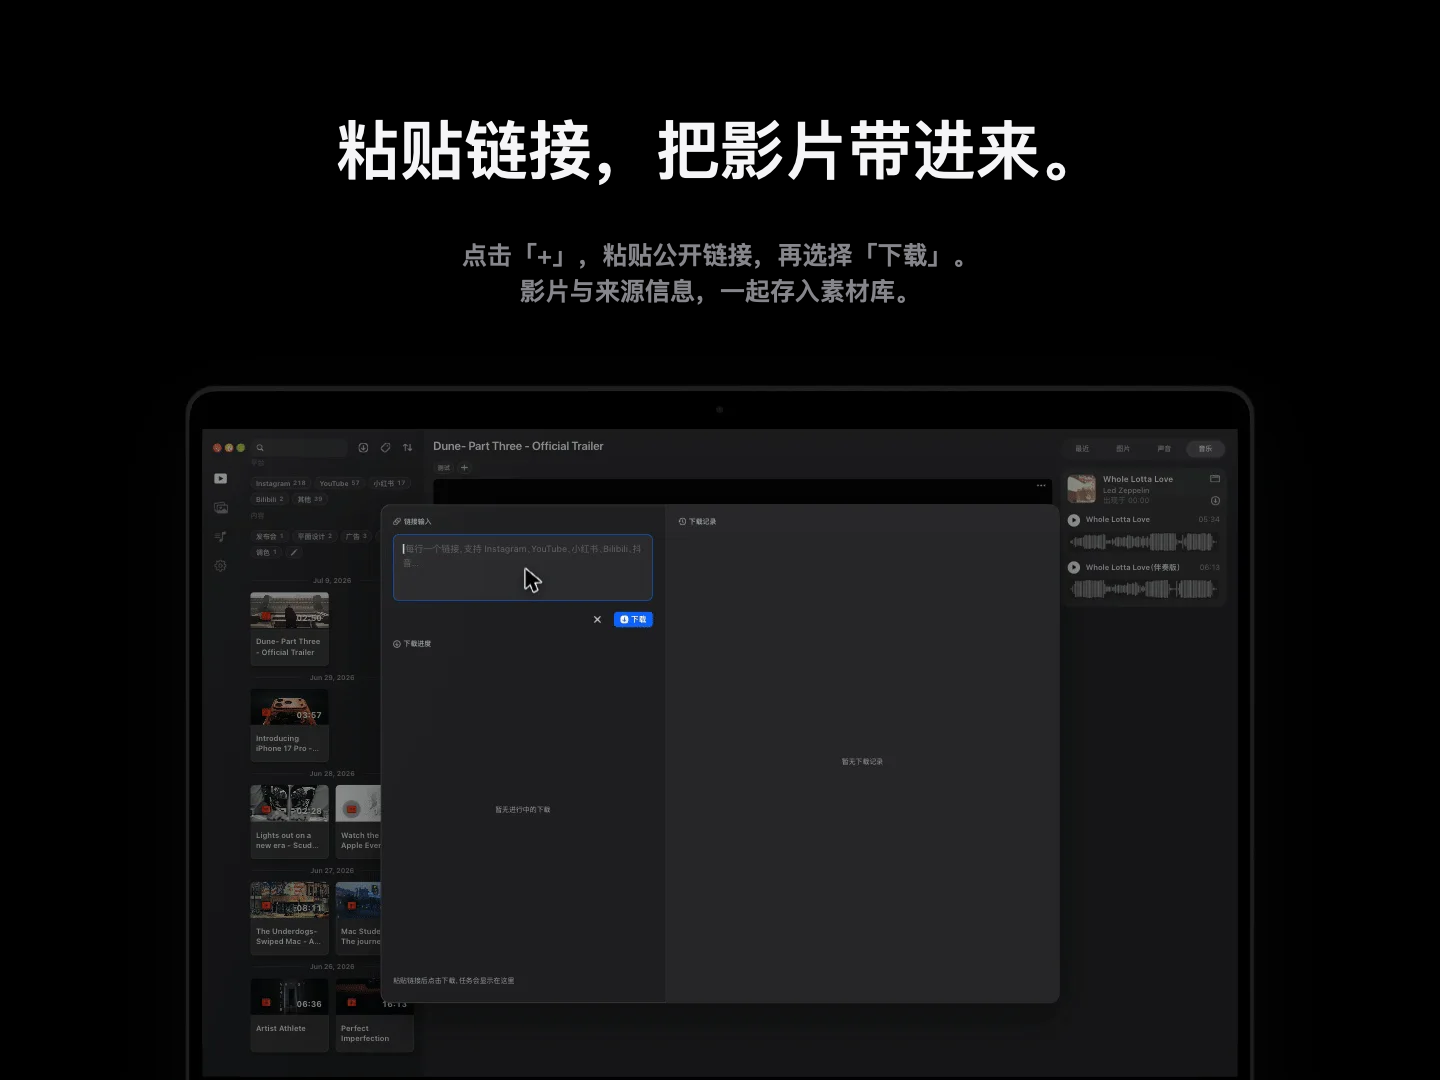
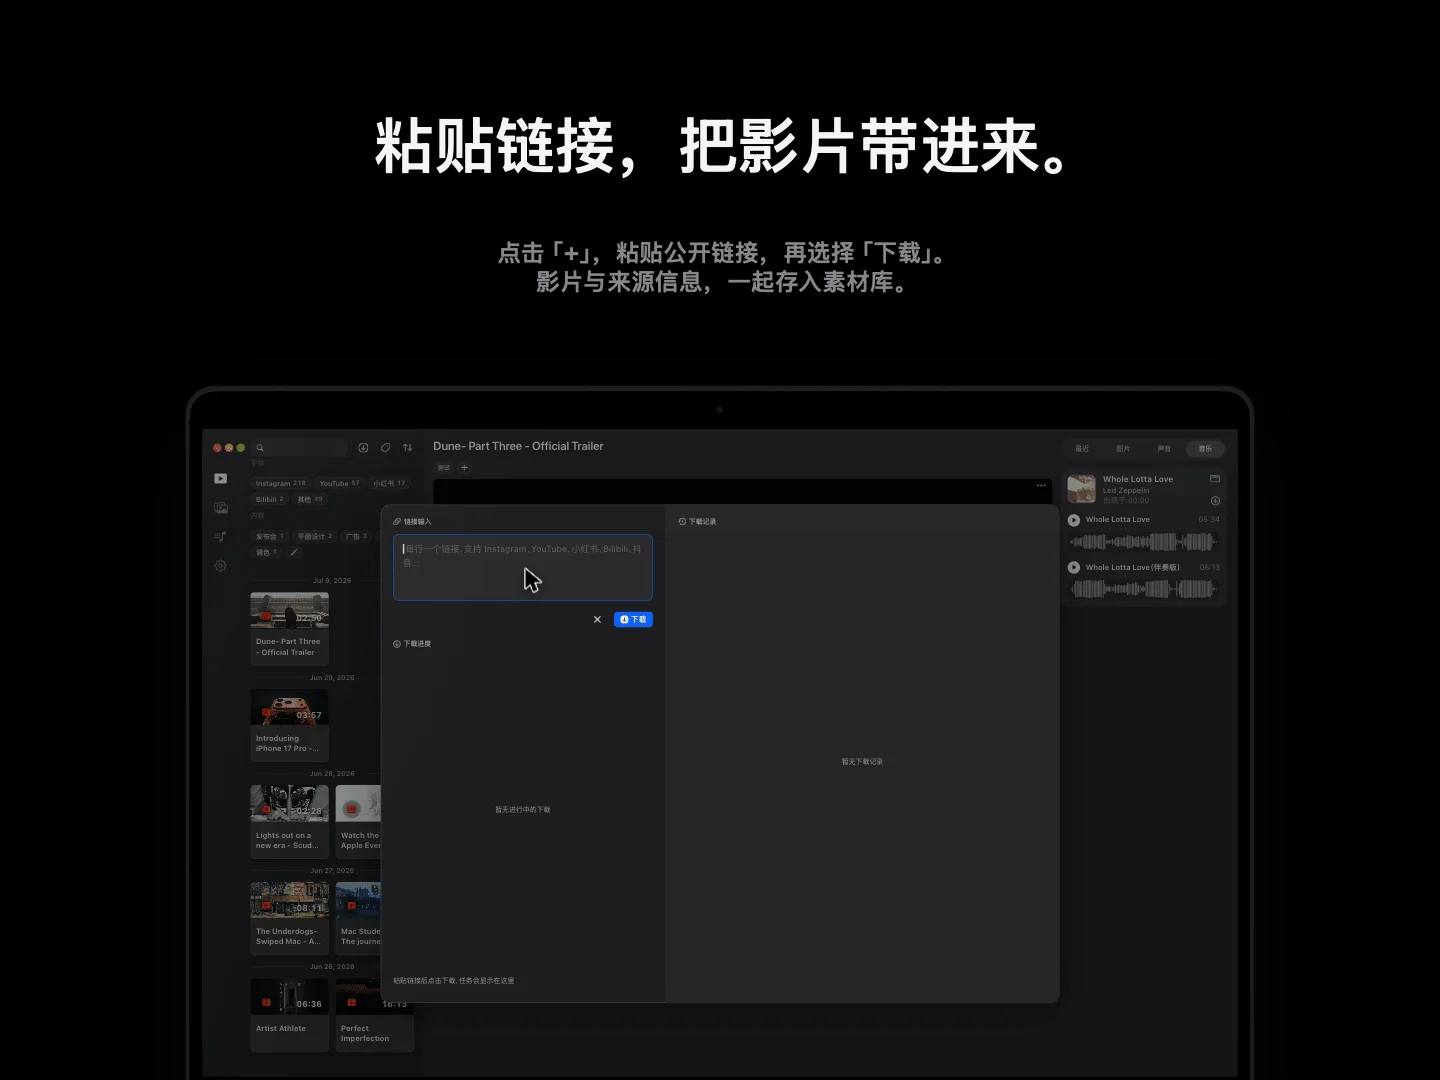
修正中文版展示素材为 SF 系统字体

Changed region(s): [[0.2188, 0.0917, 0.75, 0.1833], [0.3125, 0.2139, 0.6562, 0.3056]]

diff --git a/Tools/render_readme_chinese.swift b/Tools/render_readme_chinese.swift
@@ -10,7 +10,8 @@ try FileManager.default.createDirectory(at:output.appendingPathComponent("poster
 func color(_ hex:Int)->NSColor { NSColor(srgbRed:CGFloat((hex>>16)&255)/255,green:CGFloat((hex>>8)&255)/255,blue:CGFloat(hex&255)/255,alpha:1) }
 func drawText(_ s:String,_ r:NSRect,_ size:CGFloat,_ weight:NSFont.Weight = .semibold,_ tint:NSColor = color(0xf5f5f7),_ center:Bool = false) {
  let p=NSMutableParagraphStyle(); p.alignment=center ? .center : .left
- let font=NSFont(name:weight == .regular ? "PingFangSC-Regular":"PingFangSC-Semibold",size:size) ?? NSFont.systemFont(ofSize:size,weight:weight)
+ // SF system font supplies Latin glyphs; Core Text chooses the matching CJK fallback.
+ let font=NSFont.systemFont(ofSize:size,weight:weight)
  (s as NSString).draw(in:r,withAttributes:[.font:font,.foregroundColor:tint,.paragraphStyle:p])
 }
 func render(_ w:Int,_ h:Int,_ body:()->Void)->CGImage {
@@ -93,5 +94,5 @@ for frame in 0..<count {
 assert(CGImageDestinationFinalize(dest));print("Rendered 8 posters and \(count) animated frames, duration \(elapsed) ms")
 
 var strip = try String(contentsOf:root.appendingPathComponent("docs/assets/github/release-strip.svg"),encoding:.utf8)
-for (en,zh) in [("Version 1.2.1","版本 1.2.1"),("REQUIRES","系统要求"),("PROCESSOR","处理器"),("Apple silicon","Apple 芯片"),("DOWNLOAD","下载大小"),("Visit website","访问官网"),("SF Pro Display","PingFang SC, SF Pro Display")] {strip=strip.replacingOccurrences(of:en,with:zh)}
+for (en,zh) in [("Version 1.2.1","版本 1.2.1"),("REQUIRES","系统要求"),("PROCESSOR","处理器"),("Apple silicon","Apple 芯片"),("DOWNLOAD","下载大小"),("Visit website","访问官网")] {strip=strip.replacingOccurrences(of:en,with:zh)}
 try strip.write(to:output.appendingPathComponent("release-strip.svg"),atomically:true,encoding:.utf8)
